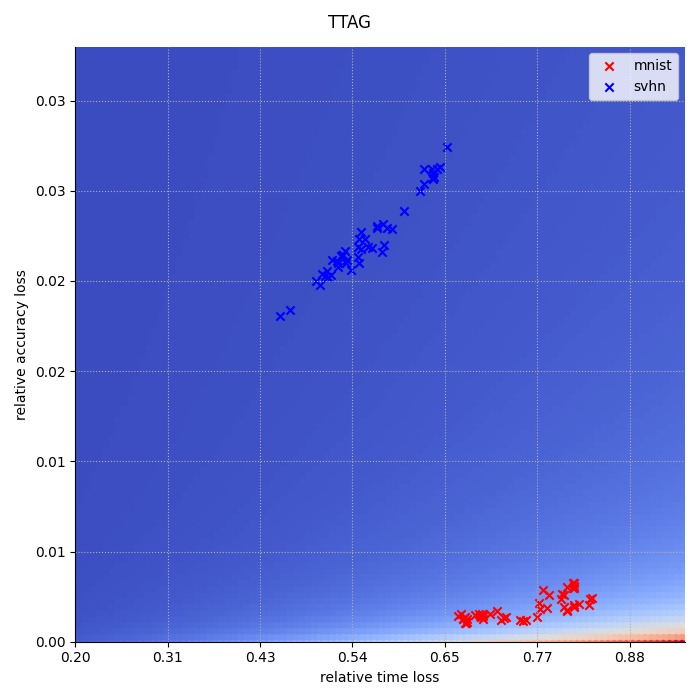
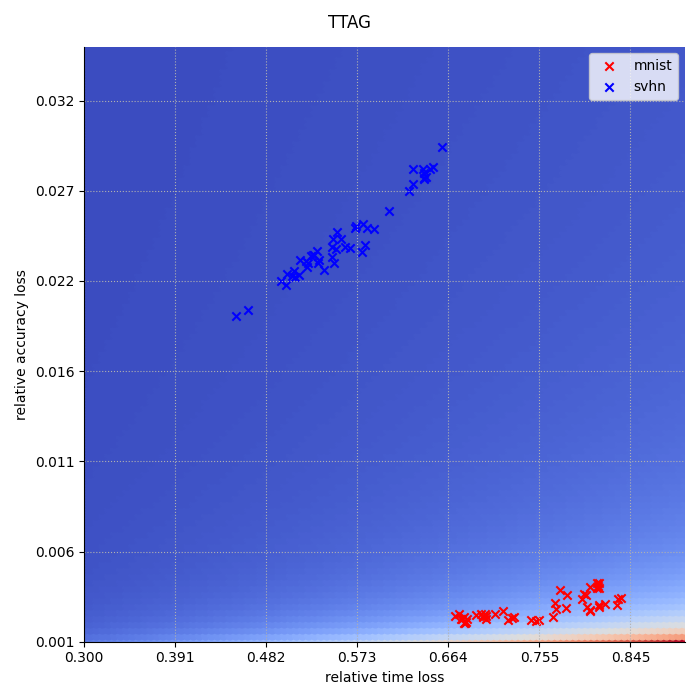
ttag plot

diff --git a/ttag.py b/ttag.py
@@ -1,7 +1,7 @@
 import numpy as np
 import matplotlib.pyplot as plt
 
-r_time_loss = np.linspace(0.2,0.95,100)
+r_time_loss = np.linspace(0.3,0.9,100)
 r_acc_loss = np.linspace(0.001,0.035,100)
 
 r_t_a_m = np.load('results/r_t_a_m.npy')
@@ -27,11 +27,11 @@ plt.suptitle('TTAG')
 
 ax.scatter(xx, yy, c = ttag, cmap='coolwarm')
 a = 15
-ax.set_xticks(r_time_loss[::a], ['%0.2f' % t for t in r_time_loss][::a])
+ax.set_xticks(r_time_loss[::a], ['%0.3f' % t for t in r_time_loss][::a])
 ax.set_xlabel('relative time loss')
-ax.set_yticks(r_acc_loss[::a], ['%0.2f' % t for t in r_acc_loss][::a])
+ax.set_yticks(r_acc_loss[::a], ['%0.3f' % t for t in r_acc_loss][::a])
 ax.set_ylabel('relative accuracy loss')
-ax.set_xlim(0.2, 0.95)
+ax.set_xlim(0.3, 0.9)
 ax.set_ylim(0.001, 0.035)
 
 ax.scatter(t_m, a_m, color='red', marker='x', label='mnist')
